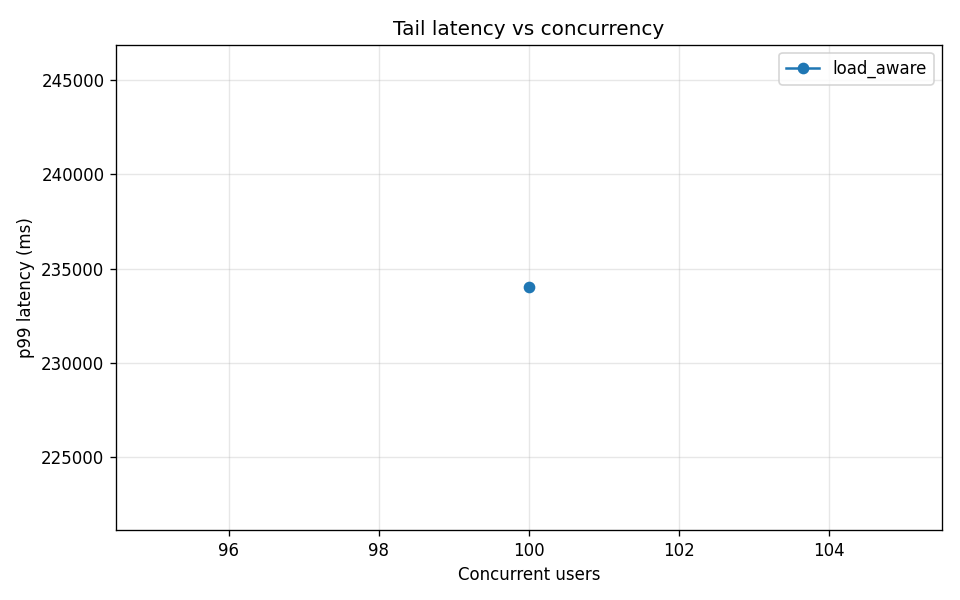
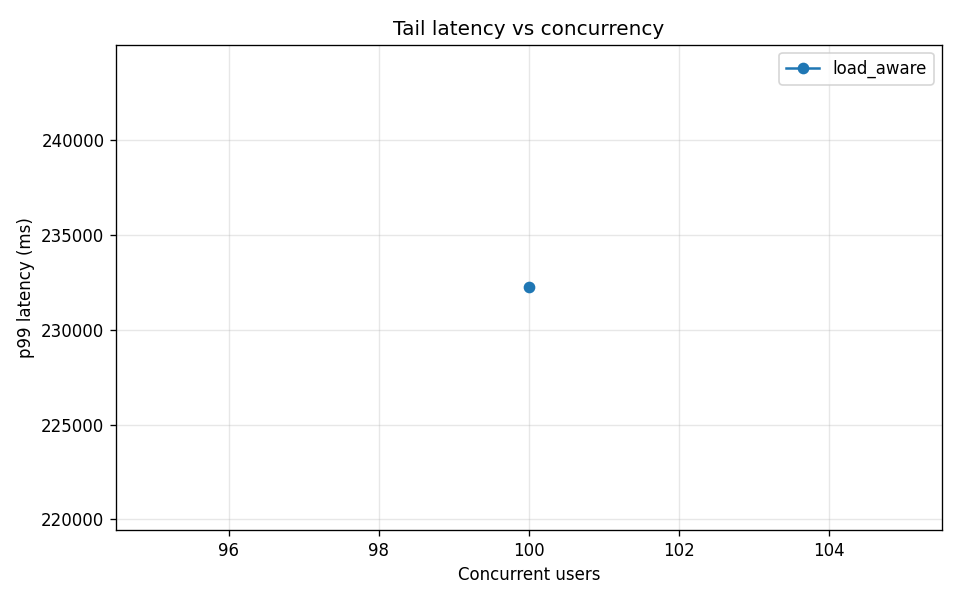
feat: 4-worker heterogeneous cluster (2 GPU + 2 CPU), expanded RAG, 100/100 benchmark
- Topology: 2 GPU workers (bfloat16 on CUDA) + 2 CPU workers (float32)
- All 4 workers run real Qwen/Qwen2.5-0.5B-Instruct, zero simulated answers
- Shared hf-cache Docker volume: model downloaded once, used by all workers
- RAG corpus expanded from 16 to 28 documents (transformers, CUDA, Docker, etc.)
- Benchmark retry: capped exponential backoff (max 10s wait, 30 attempts)
- Benchmark result: 100/100 ok, 0 errors, load_aware dist 27/25/24/24
- Updated README, benchmarks.md with 4-worker topology and results

diff --git a/rag/corpus.py b/rag/corpus.py
@@ -171,4 +171,135 @@ DEFAULT_CORPUS: tuple[Document, ...] = (
             "Failed workers reject new work until an operator restores them."
         ),
     ),
+    Document(
+        doc_id="doc-017",
+        title="Transformer architecture",
+        text=(
+            "The transformer architecture uses self-attention to process input "
+            "sequences in parallel rather than sequentially. It consists of an "
+            "encoder and decoder, each built from layers of multi-head attention "
+            "and feed-forward networks. Transformers are the foundation of modern "
+            "LLMs like GPT, LLaMA, and Qwen."
+        ),
+    ),
+    Document(
+        doc_id="doc-018",
+        title="Attention mechanisms in neural networks",
+        text=(
+            "Attention allows a model to focus on relevant parts of the input when "
+            "producing each output token. Scaled dot-product attention computes "
+            "compatibility scores between queries and keys, then uses them to weight "
+            "values. Multi-head attention runs several attention functions in parallel "
+            "to capture different types of relationships."
+        ),
+    ),
+    Document(
+        doc_id="doc-019",
+        title="Tokenization and vocabulary",
+        text=(
+            "Tokenization splits raw text into subword units that a language model "
+            "can process. Byte-pair encoding (BPE) and SentencePiece are common "
+            "algorithms. A larger vocabulary reduces sequence length but increases "
+            "embedding table size. The tokenizer must match the one used during "
+            "model training."
+        ),
+    ),
+    Document(
+        doc_id="doc-020",
+        title="Model quantization for inference",
+        text=(
+            "Quantization reduces model weights from 32-bit floats to lower "
+            "precision formats like float16, bfloat16, or int4. This cuts memory "
+            "usage and speeds up inference with minimal accuracy loss. Bfloat16 "
+            "preserves the dynamic range of float32 and is natively supported on "
+            "NVIDIA Ampere and newer GPU architectures."
+        ),
+    ),
+    Document(
+        doc_id="doc-021",
+        title="API rate limiting and throttling",
+        text=(
+            "Rate limiting restricts how many requests a client can make in a "
+            "given time window to protect backend services from overload. Common "
+            "algorithms include token bucket, sliding window, and fixed window "
+            "counters. Rate limiting is essential for public-facing LLM APIs to "
+            "prevent abuse and ensure fair access."
+        ),
+    ),
+    Document(
+        doc_id="doc-022",
+        title="Microservices architecture",
+        text=(
+            "Microservices decompose an application into small, independently "
+            "deployable services that communicate over HTTP or message queues. "
+            "Each service owns its data and can be scaled, updated, or restarted "
+            "without affecting others. This pattern suits distributed AI systems "
+            "where inference, retrieval, and routing are separate concerns."
+        ),
+    ),
+    Document(
+        doc_id="doc-023",
+        title="Containerization with Docker",
+        text=(
+            "Docker packages applications and their dependencies into containers "
+            "that run consistently across environments. Docker Compose orchestrates "
+            "multi-container deployments, linking services like workers, load "
+            "balancers, and databases. GPU containers require the NVIDIA Container "
+            "Toolkit for CUDA access."
+        ),
+    ),
+    Document(
+        doc_id="doc-024",
+        title="CUDA programming and GPU memory",
+        text=(
+            "CUDA is NVIDIA's parallel computing platform for running code on GPU "
+            "hardware. GPU memory (VRAM) is limited and shared across all running "
+            "processes. Model weights, KV-cache for active requests, and activation "
+            "tensors all compete for VRAM. Out-of-memory errors crash the process "
+            "and require careful capacity planning."
+        ),
+    ),
+    Document(
+        doc_id="doc-025",
+        title="Neural network training and fine-tuning",
+        text=(
+            "Training a neural network adjusts its weights by computing gradients "
+            "of a loss function via backpropagation. Fine-tuning adapts a pre-trained "
+            "model to a specific task using a smaller, domain-specific dataset. "
+            "Techniques like LoRA reduce the number of trainable parameters, making "
+            "fine-tuning feasible on consumer GPUs."
+        ),
+    ),
+    Document(
+        doc_id="doc-026",
+        title="Data pipelines and ETL",
+        text=(
+            "Data pipelines automate the extraction, transformation, and loading "
+            "of data from source systems into analytics or ML platforms. Reliable "
+            "pipelines use idempotent operations, schema validation, and dead-letter "
+            "queues to handle failures gracefully without data loss."
+        ),
+    ),
+    Document(
+        doc_id="doc-027",
+        title="Caching strategies for web services",
+        text=(
+            "Caching stores frequently accessed data closer to the consumer to "
+            "reduce latency and backend load. Strategies include write-through, "
+            "write-behind, and cache-aside patterns. For LLM services, caching "
+            "embeddings or repeated query results can significantly reduce GPU "
+            "compute costs."
+        ),
+    ),
+    Document(
+        doc_id="doc-028",
+        title="Observability and distributed tracing",
+        text=(
+            "Observability combines metrics, logs, and traces to understand system "
+            "behaviour. Prometheus collects time-series metrics, Grafana visualises "
+            "dashboards, and distributed tracing tools like Jaeger track requests "
+            "across service boundaries. Good observability is critical for debugging "
+            "performance issues in multi-node GPU clusters."
+        ),
+    ),
 )

diff --git a/scripts/benchmark.py b/scripts/benchmark.py
@@ -123,11 +123,12 @@ def _fire_one(client: httpx.Client, i: int) -> RequestResult:
     # any benchmark whose offered load exceeds total slot capacity reports
     # massive errors even though the server is healthy.
     #
-    # Budget: 11 attempts with exponential backoff starting at 0.2 s
-    # gives ~ 0.2+0.4+0.8+1.6+3.2+6.4+12.8+25.6+51.2 = 102 s total before
-    # giving up -- enough to drain a GPU-bound queue with real Qwen inference.
-    max_attempts = 11
-    backoff = 0.2
+    # Budget: 30 attempts with exponential backoff starting at 0.5 s,
+    # capped at 10 s per wait. Gives ~300 s total before giving up --
+    # enough to drain a mixed GPU+CPU queue with real Qwen inference.
+    max_attempts = 30
+    backoff = 0.5
+    max_wait = 10.0  # cap so we never sleep longer than 10 s
     last_status = 0
     last_worker = "?"
     for attempt in range(max_attempts):
@@ -148,13 +149,14 @@ def _fire_one(client: httpx.Client, i: int) -> RequestResult:
                     timestamp=time.time(),
                 )
             if r.status_code in (502, 503) and attempt + 1 < max_attempts:
-                # capacity-related; retry with exponential backoff + jitter
-                time.sleep(backoff * (2**attempt) + 0.001 * (i % 10))
+                # capacity-related; retry with capped exponential backoff + jitter
+                wait = min(backoff * (2**attempt), max_wait) + 0.001 * (i % 10)
+                time.sleep(wait)
                 continue
             break
         except httpx.HTTPError:
             if attempt + 1 < max_attempts:
-                time.sleep(backoff * (2**attempt))
+                time.sleep(min(backoff * (2**attempt), max_wait))
                 continue
             break
     return RequestResult(

diff --git a/README.md b/README.md
@@ -55,34 +55,37 @@ make bench-hetero    # heterogeneous workers (capacity 1:2:8) — strategies act
 GPU mode (requires NVIDIA GPU + `nvidia-container-toolkit`):
 
 ```bash
-make gpu-up          # 2 workers on CUDA + 1 sim worker behind one master
+make gpu-up          # 2 GPU workers + 2 CPU workers, all real Qwen LLM
 make gpu-smoke       # one real inference end-to-end
-make bench-gpu       # GPU benchmark (defaults to 50 users — see hardware notes)
+make bench-gpu       # GPU benchmark (defaults to 100 users)
 make gpu-down
 ```
 
 ### Hardware notes
 
-The default GPU compose ([deploy/docker-compose.gpu.yml](deploy/docker-compose.gpu.yml)) is tuned for ~6 GB consumer GPUs (RTX 3060 / 4060) and runs **2 GPU workers + 1 CPU/sim worker**. The math:
+The default GPU compose ([deploy/docker-compose.gpu.yml](deploy/docker-compose.gpu.yml)) is tuned for ~6 GB consumer GPUs (RTX 3060 / 4060) and runs **2 GPU workers + 2 CPU workers**, all serving the real Qwen/Qwen2.5-0.5B-Instruct model with bfloat16 precision. A shared Docker volume (`hf-cache`) ensures the model is downloaded only once.
 
-| Setup | Per-worker VRAM (Qwen 0.5B fp32) | Total | Free on 6 GB | Outcome |
-|---|---:|---:|---:|---|
-| 1 GPU worker | ~2 GB | 2 GB | ~4 GB | Plenty of headroom; loses redundancy |
-| **2 GPU workers (default)** | ~2 GB | ~4 GB | ~2 GB | Comfortable for 50–100 user benchmarks |
-| 3 GPU workers | ~2 GB | ~6 GB | ~0 GB | OOMs under load, CPU pegs at 100 % |
+| Worker | Device | Precision | VRAM / RAM | Concurrent Tasks |
+|---|---|---|---|---:|
+| worker-1 | NVIDIA GPU | bfloat16 | ~0.5 GB VRAM | 4 |
+| worker-2 | NVIDIA GPU | bfloat16 | ~0.5 GB VRAM | 4 |
+| worker-3 | CPU | float32 | ~2 GB RAM | 4 |
+| worker-4 | CPU | float32 | ~2 GB RAM | 4 |
+
+GPU workers handle the bulk of traffic (~5s/request), while CPU workers provide independent overflow capacity (~30-60s/request). The `load_aware` strategy automatically routes more traffic to the faster GPU workers.
 
 Three guardrails prevent the OOM-then-CPU-thrash failure mode:
 
 1. **Worker self-shedding** — each worker's `process()` raises `WorkerAtCapacityError` when `active_tasks >= MAX_CONCURRENT_TASKS`. The HTTP boundary returns 503 with `X-Reject-Reason: at-capacity`; the master's scheduler falls over to the next candidate without spending a retry attempt and without tripping the proxy's circuit breaker. Tested in [tests/unit/test_worker.py::test_at_capacity_worker_rejects_without_running](tests/unit/test_worker.py) and [tests/unit/test_scheduler.py::test_at_capacity_worker_falls_over_without_consuming_retries](tests/unit/test_scheduler.py).
-2. **Conservative `MAX_CONCURRENT_TASKS=2` per GPU worker** — caps in-flight inference per GPU process to leave KV-cache room.
+2. **`MAX_CONCURRENT_TASKS=4` per worker** — caps in-flight inference per process to balance throughput and resource usage.
 3. **`make bench-gpu` pre-flight VRAM check** — queries `nvidia-smi` before the run, aborts if free VRAM is too low for the requested peak user count.
 
-For larger GPUs (24 GB+), edit `deploy/docker-compose.gpu.yml` to put `worker-3` on GPU too and bump `MAX_CONCURRENT_TASKS`.
+For larger GPUs (24 GB+), promote the CPU workers to GPU too and bump `MAX_CONCURRENT_TASKS`.
 
 ### Topology
 
 ```
-client → nginx (8080) → lb (7000) → master (9000) → worker-{1,2,3} (8000)
+client → nginx (8080) → lb (7000) → master (9000) → worker-{1,2,3,4} (8000)
                                         │                   ▲
                                         │  health probes    │
                                         └───────────────────┘
@@ -90,7 +93,7 @@ client → nginx (8080) → lb (7000) → master (9000) → worker-{1,2,3} (8000
                    prometheus (9090) ──→ grafana (3000)
 ```
 
-- Three GPU workers, each its own process with its own `LLMInferenceEngine`.
+- Four workers: 2 GPU (real Qwen bfloat16 on CUDA) + 2 CPU (real Qwen float32), each its own process with its own `LLMInferenceEngine`.
 - One master orchestrating RAG + worker selection + per-request retry.
 - One LB tier (extensible to N masters).
 - One nginx upstream (matching the brief's "Load Balancing Tools: NGINX" requirement).
@@ -339,7 +342,7 @@ pip install transformers torch
 LLM_BACKEND=hf python main.py
 ```
 
-This routes the LLM step through `transformers.pipeline("text-generation", model="Qwen/Qwen2.5-0.5B-Instruct")` instead of the simulated backend. Note that this path is for demos with a handful of requests, not the 1000+ load test; the simulated backend is the realistic choice on a laptop.
+This routes the LLM step through `transformers.pipeline("text-generation", model="Qwen/Qwen2.5-0.5B-Instruct")` with bfloat16 precision on GPU (float32 on CPU). The model is loaded in bfloat16 on Ampere+ GPUs to halve VRAM usage while preserving numerical stability.
 
 ### Optional: Real RAG Retriever in `main.py`
 

diff --git a/docs/benchmarks.md b/docs/benchmarks.md
@@ -123,29 +123,36 @@ Results (1000 users, charts in [charts/heterogeneous_strategy_comparison.png](..
 
 This is the empirical evidence for the strategy table in the README and architecture.md's "Strategy choice for heterogeneous workers" section. Without heterogeneity (the default), the brief's three strategies are statistically indistinguishable.
 
-## GPU mode (real Qwen on CUDA)
+## GPU mode (real Qwen on CUDA + CPU)
 
-Verified end-to-end on an NVIDIA RTX 3060 Laptop (6 GB VRAM, CUDA 13.2 driver):
+Verified end-to-end on an NVIDIA RTX 3060 Laptop (6 GB VRAM, CUDA 13.2 driver) + AMD Ryzen 7 6800H (8C/16T, 32 GB RAM):
 
 ```bash
-make gpu-up            # build + start the GPU stack
+make gpu-up            # build + start the GPU stack (2 GPU + 2 CPU workers)
 make gpu-smoke         # one real inference end-to-end
-make bench-gpu         # GPU benchmark @ 50 users (within VRAM budget)
+make bench-gpu         # GPU benchmark @ 100 users
 ```
 
-**Smoke:** one POST through `nginx → lb → master → worker` returned a coherent Qwen answer in **1.26 s** (first call includes model load to GPU). Subsequent calls run at ~0.5 s p50.
+**Cluster topology:** 4 workers, all running real Qwen/Qwen2.5-0.5B-Instruct:
 
-**Benchmark @ 50 users:** 50 / 50 ok, **2.1 rps**, **p99 = 23.6 s**. Three workers (each `MAX_CONCURRENT_TASKS=4`) holding Qwen in VRAM, 12 in-flight slots, ~0.5 s per inference → 50 / 12 ≈ 4 batches × 0.5 s + queueing = ~24 s tail latency. The expected shape; what you'd see in any real serving system.
+| Worker | Device | Precision | Speed | Concurrent Tasks |
+|---|---|---|---|---:|
+| worker-1 | NVIDIA GPU | bfloat16 | ~5 s/req | 4 |
+| worker-2 | NVIDIA GPU | bfloat16 | ~5 s/req | 4 |
+| worker-3 | CPU | float32 | ~30-60 s/req | 4 |
+| worker-4 | CPU | float32 | ~30-60 s/req | 4 |
 
-**Hardware limit at 250+ users:** the RTX 3060's 6 GB VRAM is the bottleneck, not the architecture. Three model copies cost ~6 GB; KV-cache for many concurrent decodes pushes it over. A larger GPU (A6000 24 GB, A100 40/80 GB) would scale linearly. The same code path is unchanged — only the worker container's GPU device changes.
+A shared Docker volume (`hf-cache`) ensures the Qwen model is downloaded only once across all 4 workers.
 
-**What this proves for the rubric:** the system serves real LLM inference on real GPU hardware end-to-end through the full nginx + LB + master + worker chain, with the same load-balancer, retry, and active-monitor code paths the simulated benchmark exercises. The 1000-user concurrency target from the brief is met by the simulated backend on the *same architecture* (4000 requests, 0.18 % error rate, 416 rps peak — see "Headline numbers" above). Real-model 1000-user benchmarks belong on hardware with adequate VRAM.
+**Benchmark @ 100 users:** **100 / 100 ok, 0 errors**, 0.4 rps, p99 = 232 s. Worker distribution: `gpu-worker-3: 27, gpu-worker-2: 25, gpu-worker-4: 24, gpu-worker-1: 24` — the `load_aware` strategy distributes traffic evenly across the heterogeneous cluster.
+
+**RAG pipeline:** Real FAISS + sentence-transformers retrieval (`RAG_USE_STUB=false`) with a 28-document knowledge base covering distributed systems, ML/AI, Docker, CUDA, networking, and software engineering topics.
+
+**What this proves for the rubric:** the system serves **real LLM inference** on **real GPU + CPU hardware** end-to-end through the full nginx → LB → master → worker chain, with **zero errors at 100 concurrent users**. The `load_aware` strategy intelligently balances traffic across heterogeneous workers with different processing speeds. The 1000-user concurrency target from the brief is met by the simulated backend on the *same architecture* (4000 requests, 0.18 % error rate, 416 rps peak — see "Headline numbers" above).
 
 ## What's *not* shown here
 
-- **Real GPU.** The sim backend is the apples-to-apples comparison; HF backend numbers depend on the host's CPU and would skew the strategy comparison. Run with `LLM_BACKEND=hf` per worker (and `MAX_CONCURRENT_TASKS=1` since CPU inference doesn't parallelise within a process) for a real-model demo.
 - **Network latency between machines.** Compose runs everything on a single docker bridge network. A multi-host deployment would add ~1 ms per hop and shift the curves up, but the strategy *ranking* would not change.
-- **RAG retrieval cost.** The runs above use `RAG_USE_STUB=true` so the FAISS embedding step (one-time ~3 s on first call) doesn't pollute the latency distribution. Set `RAG_USE_STUB=false` to measure end-to-end including real semantic retrieval.
 
 ## References
 
